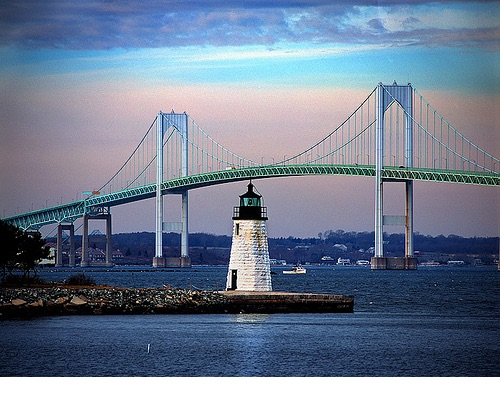
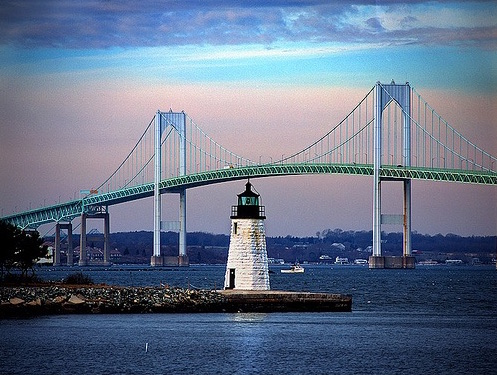
edits to time and place page

diff --git a/unit_3/index.html b/unit_3/index.html
@@ -16,7 +16,7 @@
 		</div>
 		<div class="dropdown"><a href="#">Wedding Details</a>
 		  <ul class="drop-nav">
-		    <li><a href="">Time & Place</a></li>
+		    <li><a href="http://robziez.github.io/sub_pages/time_place.html">Time & Place</a></li>
 		    <li><a href="">What's On The Menu</a></li>
 		    <li><a href="">Wedding Party</a></li>
 		    </ul>

diff --git a/sub_pages/css/sub_pages_style.css b/sub_pages/css/sub_pages_style.css
@@ -39,12 +39,13 @@ p{
 footer{
 	font-size: 12px;
 	margin-bottom: 0px;
-	padding-bottom: 0px;
+	padding: 10px;
+	margin-top: 700px;
 }
 #time_place{
 	background: url(../images/time_place_background.jpg);
 	background-repeat: no-repeat;
-	background-size: cover;
+	background-size: 100% 100%;
 	display: block;
 }
 #schedule_of_events{

diff --git a/unit_3/css/style.css b/unit_3/css/style.css
@@ -49,6 +49,7 @@ footer{
 	font-size: 12px;
 	font-family: "Times New Roman";
 	text-align: center;
+	margin-top: 600px; 
 	margin-bottom: 0px;
 	padding: 10px;
 	color: #000;
